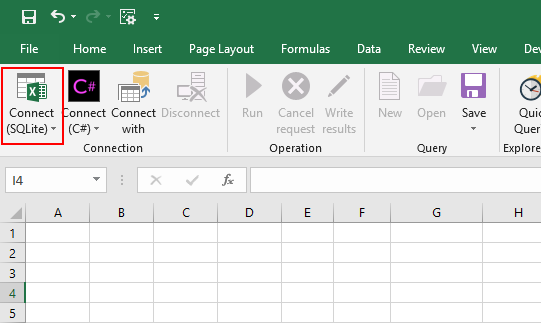
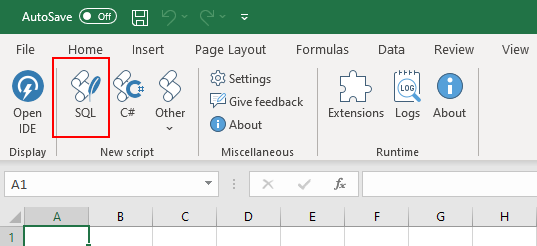
sqlite

diff --git a/New docs/Querying/SQLite.md b/New docs/Querying/SQLite.md
@@ -1,0 +1,90 @@
+# SQL in Excel
+QueryStorm comes equipped with a [SQLite](https://www.sqlite.org) engine that can work with Excel tables as if they were database tables.
+
+## Connecting
+Clicking the SQL button in the ribbon pops up the QueryStorm IDE and creates a new SQLite script that you can use to run queries against the tables in the current workbook.
+
+![Connect to workbook](../../Images/connect_sql.png)
+
+## Querying
+
+Once connected, we can start querying. It's important to note that the SQLite engine will only see data that is inside [Excel tables](http://www.excel-easy.com/data-analysis/tables.html "Excel tables intro"). 
+
+> To turn a range into a table, select it and press `Ctrl+T`
+
+![Querying](../../Images/sql_querying.gif?v=1)
+
+You can query the data or modify it as you see fit. All four SQL data operations are supported: `select`, `insert`, `update` and `delete`.
+
+Any changes that your commands make to Excel tables are immediately visible in Excel. 
+
+The default connection is in-memory, so any objects you create in the session (tables, views) are temporary and will disappear as soon as you disconnect.
+
+## The `__address` column
+When using the SQLite engine, all workbook tables get an additional hidden column called `__address`. This column contains the original address of the row in Excel. Double-clicking the address in the results grid will select the row in Excel. The `__address` column is **not included** in the results if you only specify `*` in the select list; you must include it in the select list explicitly if you need it (e.g. `select *, __address...`).
+
+## Working with cells
+While the SQLite engine primarily works with Excel tables, you can also work with cells using the **`xlcells()`** table-valued function. 
+
+The following query returns a list of cells in the current selection:
+```sql
+select * from xlcells()
+``` 
+We can also return a list of cells in a specified range, like so:
+``` sql
+select * from xlcells('Sheet1!B5:D9')
+```
+Here's what the returned data looks like:
+![Cells query](../../Images/xlcells.png)
+
+For each cell in the selection, one row is returned in the results. Each cell is described with the following attributes: `address`, `row`, `column`, `column letter`, `value`, `type`, `formula`.
+
+You can use this information to search for values or format cells based on criteria that your specify with SQL.
+
+Aside from reading values, the `xlcells` function can also be used for updating. In that case, `xlcells` is used as a table and its parameter is specified in the `where` clause. 
+
+For example, the follwing query will add 100 to all cells that have a numeric value:
+
+```sql
+update
+	XLCells -- referenced like a table
+set 	
+	Value = Value + 100
+where 
+	targetRangeAddress = 'H6:I8' -- the parameter is here (visible in autocomplete)
+	and [Type] = 'Double'
+```
+> Under the hood, table-valued-functions in SQLite are implemented as virtual tables, and can be used both as tables and as tabular functions.
+
+
+## Formatting rows and cells
+Since the SQLite engine is running *in-process* with Excel, it can interact with Excel objects. A typical use case for this is modifying formatting. 
+
+QueryStorm's SQLite engine offers the following functions for this purpose: `SetBackgroundColor` and `ClearBackgroundColor`. Both functions require the target address (`__address` in case of rows and `Address` in case of cells).
+
+Here's an example:
+``` SQL
+--first clear any previous formatting from the 'movies' table (the table name is used as the address)
+select ClearBackgroundColor('movies');
+
+--apply new formatting to target rows
+select
+	*, SetBackgroundColor(__address, 'Orange')
+from
+	 movies
+where
+	gross > 400000000
+order by
+	__row asc
+``` 
+And the resulting formatting look like this:
+![Formatting rows example](../../Images/setbackgroundcolor.png)
+
+
+
+## Column indexes
+All columns of Excel tables are automatically indexed by the SQLite engine. This makes joins and searches very fast, though all of the indexes are single-column indexes. 
+
+For representing workbook tables QueryStorm uses SQLite's virtual table mechanism, meaning that the indexing logic is baked in and no additional indexes can be defined (for workbook tables). 
+
+If different indexing is needed, you can create a copy of the table and add indexes to the copy, though this is very rarely required.
